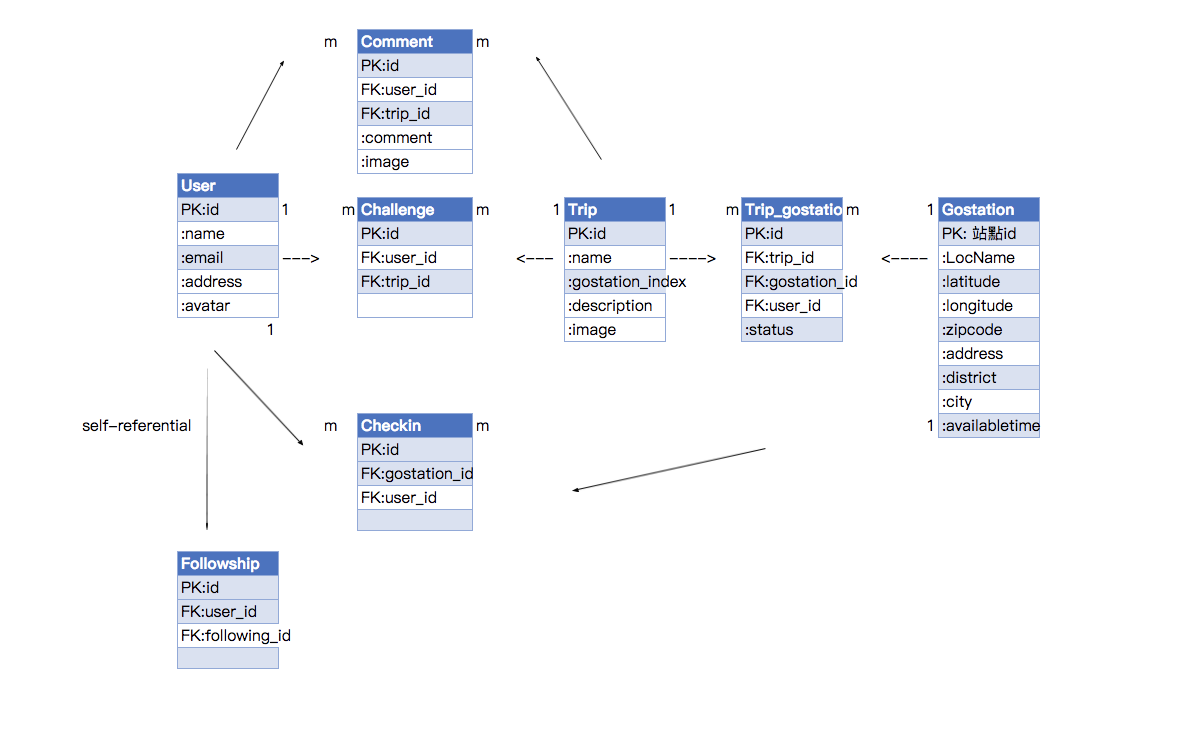
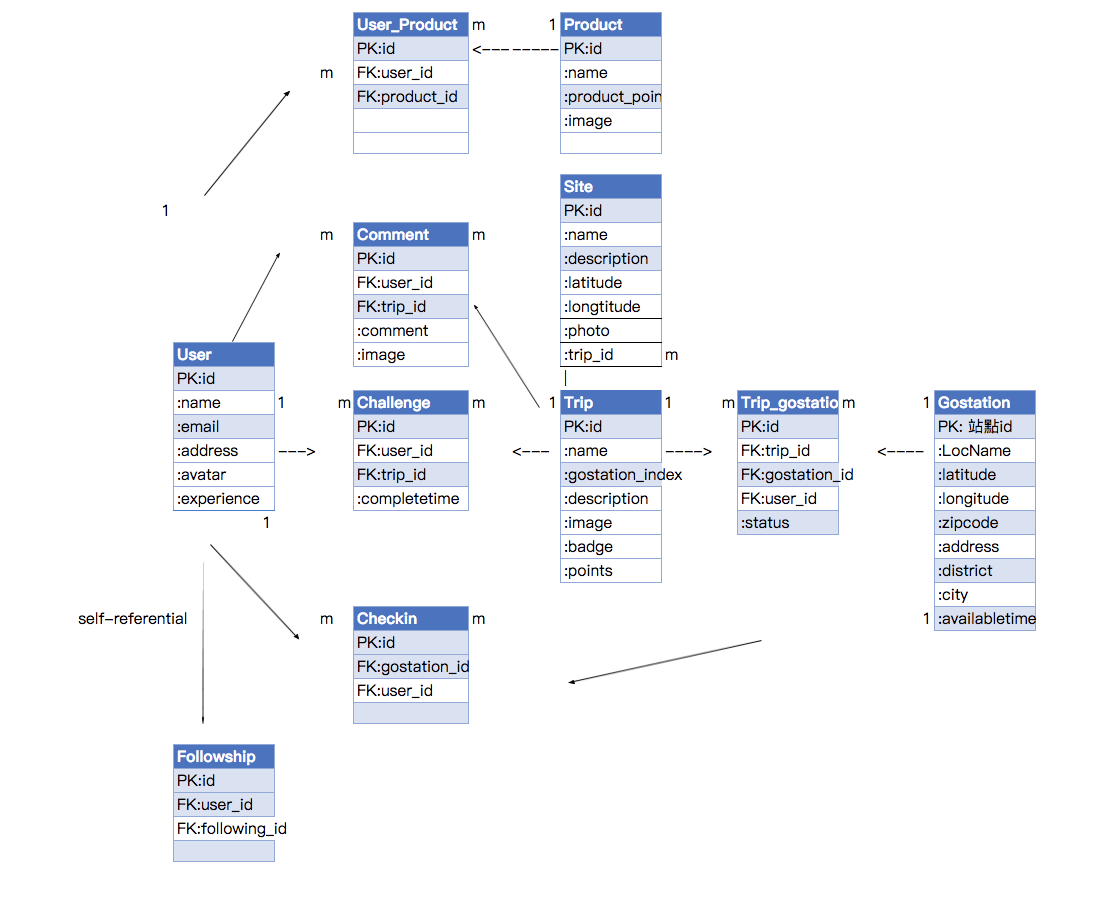
trips show and README

diff --git a/app/controllers/trips_controller.rb b/app/controllers/trips_controller.rb
@@ -21,6 +21,7 @@ class TripsController < ApplicationController
     @comments = Comment.where(trip_id: @trip).order(created_at: :desc)
     @challenge = Challenge.where(trip_id: @trip).order(:completetime).first
     gon.sign_in_count = current_user.sign_in_count
+    @sites = Site.where(trip_id: @trip.id)
   end
   
 

diff --git a/app/models/trip.rb b/app/models/trip.rb
@@ -13,6 +13,8 @@ class Trip < ApplicationRecord
   has_many :commented_users, through: :comments, source: :user
 
   serialize :gostations_index
+
+  has_many :sites
   
   def is_challenged?(user)
     self.challenged_users.include?(user)

diff --git a/app/models/site.rb b/app/models/site.rb
@@ -1,2 +1,3 @@
 class Site < ApplicationRecord
+  belongs_to :trip
 end

diff --git a/README.md b/README.md
@@ -1,18 +1,16 @@
 # GoGaming
 
-## This is a gamification web application for Gogoro, a Smartscooter  company, aiming to improve below:
+## This is a gamification web application for Gogoro, a Smartscooter  company, aiming at below:
 
-* user experience and participation.
-* utilization ratio of Smartscooter and Smart Energy
+* Improve the way of searching Gostations.
+* Makes Riding Gogoro to be fun!
 
 ## In this application, users are able to :
 
-* get directions , nearby Gostations and Gogoro friendly store.
-* Checkin gostation
-* challenge on a Trip
-* win Points , Badges, and upgrade on Leaderboard. (PBL)
-* Follow another user
-* leave a Comment on a Trip
+* Plan their routes, directions and find Gostations or Friendly Store nearby
+* Challenge on a Trip and get badge, points if trip is completed
+* Reward by badges, points , ranking and Gogoro products.
+
 
 
 
@@ -40,7 +38,6 @@ Please check on [Merit](https://github.com/merit-gem/merit) to understand the PB
 
 
 - **Challenge:**  a trip which user completed
-- **Trip_gostation:** a gostation "belongs to a trip" 
 - **Checkin:** a gostation which user checkin to ("not belongs to a trip")
 
 
